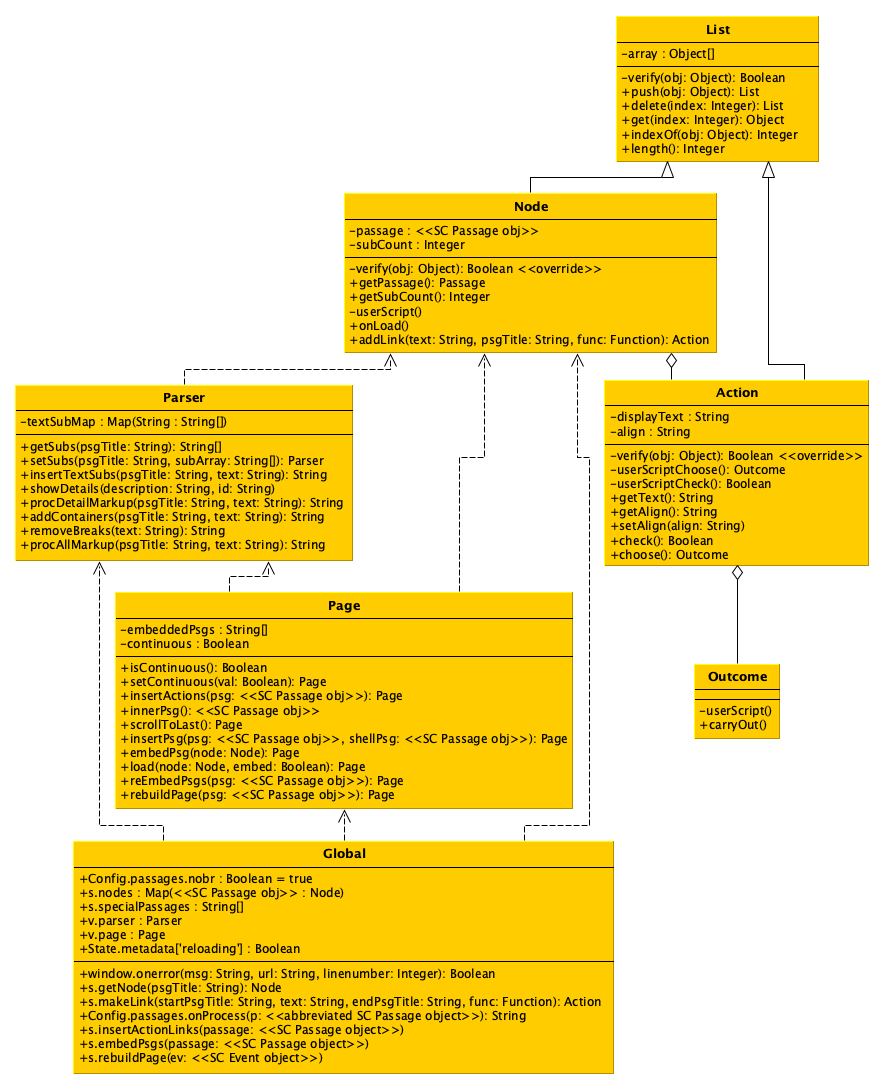
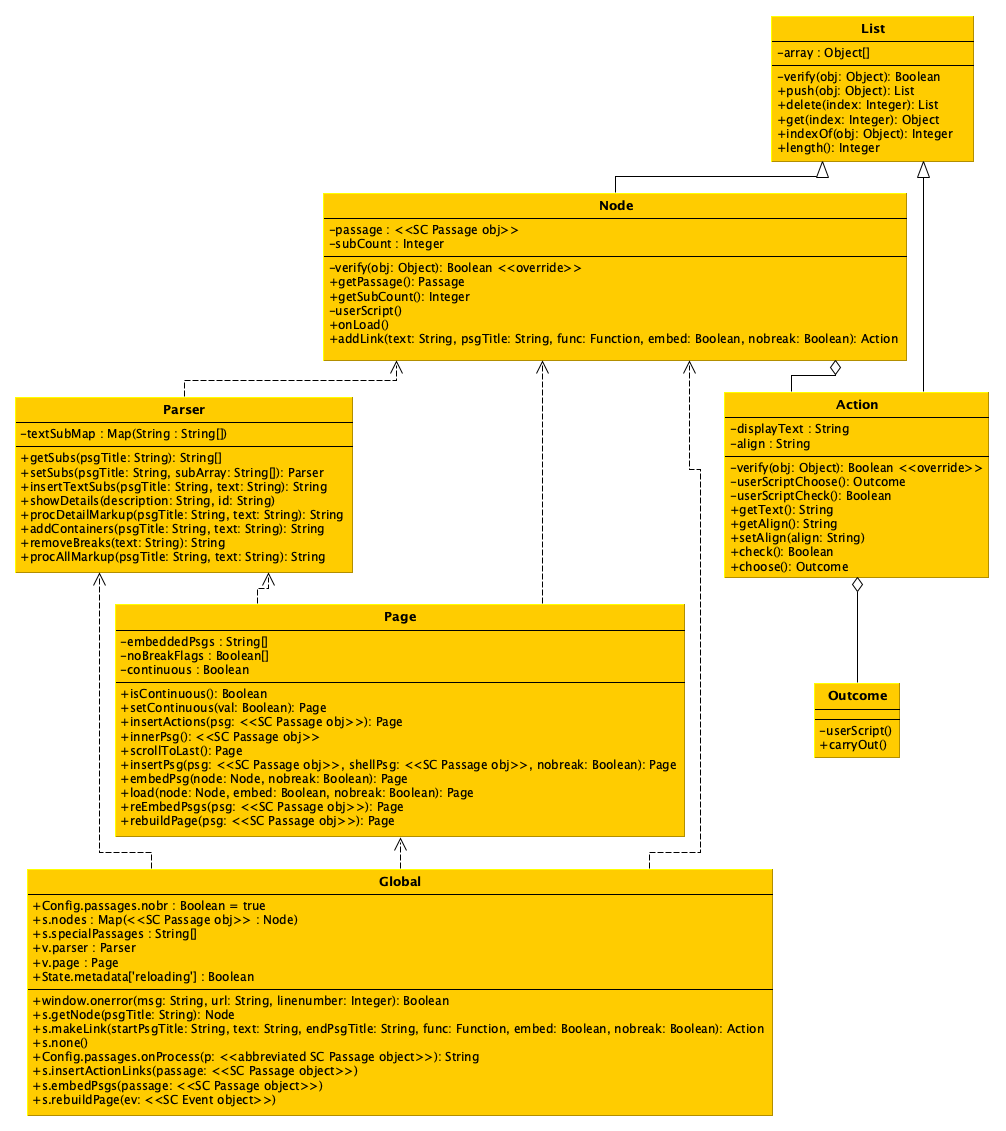
version 0.2.8
see change log

Changed region(s): [[0.0, 0.0, 1.0, 0.9991], [0.5181, 0.4059, 0.5485, 0.4371]]

diff --git a/bear-fight.html b/bear-fight.html
@@ -434,12 +434,13 @@ s.Node.prototype.onLoad = function() {
     return this._userScript();
 }
 
-s.Node.prototype.addLink = function(text, psgTitle, func) {
+s.Node.prototype.addLink = function(text, psgTitle, func, embed, nobreak) {
     /*
     Creates a new Outcome that runs the given function, then loads the
     node associated with the given passage title. Then adds that Outcome
     to a new Action with the given text as its link text. Then adds that
-    Action to the node.
+    Action to the node. The target node is loaded with the optional
+    `embed` and `nobreak` parameters.
 
     If there is no node associated with the given passage title, one
     will be created.
@@ -459,7 +460,7 @@ s.Node.prototype.addLink = function(text, psgTitle, func) {
     } else {
         outcome = new s.Outcome(function() {
             func();
-            v.page.load(targetNode);
+            v.page.load(targetNode, embed, nobreak);
         });
     }
 
@@ -810,6 +811,8 @@ be SC supported types.
 s.Page = function() {
     this._embeddedPsgs = [];  // list of embedded passage titles; does
                               // not include the first (main) passage
+    this._noBreakFlags = [];  // list of nobreak flags (true if passage
+                              // was embedded without a scene break)
     this._continuous = false; // set true to have passages embed by
                               // default
     return this;    
@@ -903,27 +906,31 @@ s.Page.prototype.scrollToLast = function() {
     return this;
 }
 
-s.Page.prototype.insertPsg = function(psg, shellPsg) {
+s.Page.prototype.insertPsg = function(psg, shellPsg, nobreak) {
     /*
-    Inserts the given passage into the given shell passage.
+    Inserts the given passage into the given shell passage, preceded by
+    a scene break ("****"). The scene break is omitted is `nobreak` is
+    true.
 
     @param {<<SC Passage object>>} psg - The passage to embed.
     @param {<<SC Passage object>>} shellPsg - The passage into which to
     embed.
     */
+    var sceneBreak = nobreak ? '' : '<p style="text-align:center">****</p>';
     $('#' + shellPsg.domId + '-next').wiki(
-        '<p style="text-align:center">****</p>' +
+        sceneBreak +
         v.parser.procAllMarkup(psg.title, psg.text)
     );
     return this;
 }
 
-s.Page.prototype.embedPsg = function(node) {
+s.Page.prototype.embedPsg = function(node, nobreak) {
     /*
     Removes the current actions from the page, inserts the given node
     and its actions into the bottom of the page, scrolls to put the new
     content at the top, appends the page's list of embedded passages,
-    and adds a new moment to SC's history.
+    and adds a new moment to SC's history. The embedded passage is
+    preceded by a scene break ("****") unless `nobreak` is true.
     */
     var nodePsg = node.getPassage();
     if (nodePsg.title === passage() ||
@@ -936,31 +943,36 @@ s.Page.prototype.embedPsg = function(node) {
 
     var latestPsg = this.innerPsg();
     $('#' + latestPsg.domId + '-actions').empty();
-    this.insertPsg(nodePsg, latestPsg);
+    this.insertPsg(nodePsg, latestPsg, nobreak);
     this.insertActions(nodePsg);
     this.scrollToLast();
     this._embeddedPsgs.push(nodePsg.title);
+    this._noBreakFlags.push(nobreak);
     State.create(State.passage);
     return this;
 }
 
-s.Page.prototype.load = function(node, embed) {
+s.Page.prototype.load = function(node, embed, nobreak) {
     /*
     Runs the given node's `onLoad` function, then renders the node's
     passage. If the optional parameter `embed` is true, then rather than
     rendering the passage, the passage's contents are appended to the
     end of the last embedded passage, the page is scrolled to put the
     new passage content at the top, and a new moment is added to SC's
-    history.
+    history. The appended content is preceded by a scene break ("****"),
+    unless the optional `nobreak` parameter is true.
     */
-    embed = embed || this._continuous;
+    if (embed === undefined) {
+        embed = this._continuous;
+    }
     node.onLoad();
     var nodePsg = node.getPassage();
     if (embed) {
-        this.embedPsg(node);
+        this.embedPsg(node, nobreak);
         return this;
     } else {
         this._embeddedPsgs = [];
+        this._noBreakFlags = [];
         Engine.play(nodePsg.title);
         return this;
     }
@@ -975,7 +987,7 @@ s.Page.prototype.reEmbedPsgs = function(psg) {
     var nextPsg;
     for (var i = 0; i < this._embeddedPsgs.length; i++) {
         nextPsg = Story.get(this._embeddedPsgs[i]);
-        this.insertPsg(nextPsg, currentPsg);
+        this.insertPsg(nextPsg, currentPsg, this._noBreakFlags[i]);
         currentPsg = nextPsg;
     }
     return this;
@@ -1022,7 +1034,8 @@ window.onerror = function(msg, url, linenumber) {
     return true;
 }
 
-s.makeLink = function(startPsgTitle, text, endPsgTitle, func) {
+s.makeLink = function(startPsgTitle, text, endPsgTitle,
+                      func, embed, nobreak) {
     /*
     Calls the `addLink` method of the node associated with
     `startPsgTitle`, passing it the other parameters. If no such node
@@ -1033,8 +1046,11 @@ s.makeLink = function(startPsgTitle, text, endPsgTitle, func) {
         startNode = new s.Node(startPsgTitle);
     }
 
-    return startNode.addLink(text, endPsgTitle, func);
+    return startNode.addLink(text, endPsgTitle, func, embed, nobreak);
 }
+
+s.none = function() { return; } // for convenience when passing an empty
+                                // function as a parameter
 
 v.parser = new s.Parser();
 
@@ -1071,10 +1087,12 @@ $(document).on(':passagedisplay', s.rebuildPage);
 /* twine-user-script #9: "9000-Main.js" */
 v.page.setContinuous(true);
 
-s.makeLink('Start', 'begin', 'intro').setAlign('center');
+s.makeLink(
+    'Start', 'begin', 'intro', s.none, true, true
+).setAlign('center');
 s.makeLink('intro', 'continue', 'RNG warning');
 s.makeLink('RNG warning', 'got it', 'who you are');
-s.makeLink('who you are', 'take a look around', 'bedroom');
+s.makeLink('who you are', 'take a look around', 'bedroom', s.none, false);
 
 s.getNode('bedroom').push((new s.Action(
     'take the knife',
@@ -1085,7 +1103,7 @@ s.getNode('bedroom').push((new s.Action(
     v.containedIn.delete('knife');
     v.inventory.add('knife');
     v.parser.setSubs('Taking knife', [' You may need this for later.']);
-    v.page.load(s.takingKnife, true);
+    v.page.load(s.takingKnife, true, true);
     return;
 })));
 

diff --git a/src/javascript/0070-Page.js b/src/javascript/0070-Page.js
@@ -19,6 +19,8 @@ be SC supported types.
 s.Page = function() {
     this._embeddedPsgs = [];  // list of embedded passage titles; does
                               // not include the first (main) passage
+    this._noBreakFlags = [];  // list of nobreak flags (true if passage
+                              // was embedded without a scene break)
     this._continuous = false; // set true to have passages embed by
                               // default
     return this;    
@@ -112,27 +114,31 @@ s.Page.prototype.scrollToLast = function() {
     return this;
 }
 
-s.Page.prototype.insertPsg = function(psg, shellPsg) {
+s.Page.prototype.insertPsg = function(psg, shellPsg, nobreak) {
     /*
-    Inserts the given passage into the given shell passage.
+    Inserts the given passage into the given shell passage, preceded by
+    a scene break ("****"). The scene break is omitted is `nobreak` is
+    true.
 
     @param {<<SC Passage object>>} psg - The passage to embed.
     @param {<<SC Passage object>>} shellPsg - The passage into which to
     embed.
     */
+    var sceneBreak = nobreak ? '' : '<p style="text-align:center">****</p>';
     $('#' + shellPsg.domId + '-next').wiki(
-        '<p style="text-align:center">****</p>' +
+        sceneBreak +
         v.parser.procAllMarkup(psg.title, psg.text)
     );
     return this;
 }
 
-s.Page.prototype.embedPsg = function(node) {
+s.Page.prototype.embedPsg = function(node, nobreak) {
     /*
     Removes the current actions from the page, inserts the given node
     and its actions into the bottom of the page, scrolls to put the new
     content at the top, appends the page's list of embedded passages,
-    and adds a new moment to SC's history.
+    and adds a new moment to SC's history. The embedded passage is
+    preceded by a scene break ("****") unless `nobreak` is true.
     */
     var nodePsg = node.getPassage();
     if (nodePsg.title === passage() ||
@@ -145,31 +151,36 @@ s.Page.prototype.embedPsg = function(node) {
 
     var latestPsg = this.innerPsg();
     $('#' + latestPsg.domId + '-actions').empty();
-    this.insertPsg(nodePsg, latestPsg);
+    this.insertPsg(nodePsg, latestPsg, nobreak);
     this.insertActions(nodePsg);
     this.scrollToLast();
     this._embeddedPsgs.push(nodePsg.title);
+    this._noBreakFlags.push(nobreak);
     State.create(State.passage);
     return this;
 }
 
-s.Page.prototype.load = function(node, embed) {
+s.Page.prototype.load = function(node, embed, nobreak) {
     /*
     Runs the given node's `onLoad` function, then renders the node's
     passage. If the optional parameter `embed` is true, then rather than
     rendering the passage, the passage's contents are appended to the
     end of the last embedded passage, the page is scrolled to put the
     new passage content at the top, and a new moment is added to SC's
-    history.
+    history. The appended content is preceded by a scene break ("****"),
+    unless the optional `nobreak` parameter is true.
     */
-    embed = embed || this._continuous;
+    if (embed === undefined) {
+        embed = this._continuous;
+    }
     node.onLoad();
     var nodePsg = node.getPassage();
     if (embed) {
-        this.embedPsg(node);
+        this.embedPsg(node, nobreak);
         return this;
     } else {
         this._embeddedPsgs = [];
+        this._noBreakFlags = [];
         Engine.play(nodePsg.title);
         return this;
     }
@@ -184,7 +195,7 @@ s.Page.prototype.reEmbedPsgs = function(psg) {
     var nextPsg;
     for (var i = 0; i < this._embeddedPsgs.length; i++) {
         nextPsg = Story.get(this._embeddedPsgs[i]);
-        this.insertPsg(nextPsg, currentPsg);
+        this.insertPsg(nextPsg, currentPsg, this._noBreakFlags[i]);
         currentPsg = nextPsg;
     }
     return this;

diff --git a/change-log.html b/change-log.html
@@ -265,6 +265,16 @@ pre[data-line] .line-highlight[data-end]:after {
       <div class="mume markdown-preview  ">
       <h1 class="mume-header" id="change-log">Change Log</h1>
 
+<h2 class="mume-header" id="version-028">Version 0.2.8</h2>
+
+<ul>
+<li>Added <code>nobreak</code> parameter to <code>Page.insertPsg()</code> to suppress the printing of the scene break.</li>
+<li>Added <code>nobreak</code> parameter to <code>Page.embedPsg()</code> and the property <code>Page._noBreakFlags</code> to track which embedded passages were inserted without scene breaks.</li>
+<li>Added <code>nobreak</code> parameter to <code>Page.load()</code>.</li>
+<li>Edited <code>Page.reEmbedPsgs()</code> to take <code>this._noBreakFlags</code> into account when re-embedding the passages.</li>
+<li>Added <code>embed</code> and <code>nobreak</code> parameters to <code>Node.addLink()</code> and <code>makeLink()</code>.</li>
+<li>Added <code>none()</code> for convenience in passing an empty function as a parameter.</li>
+</ul>
 <h2 class="mume-header" id="version-027">Version 0.2.7</h2>
 
 <ul>

diff --git a/src/javascript/0050-Node.js b/src/javascript/0050-Node.js
@@ -108,12 +108,13 @@ s.Node.prototype.onLoad = function() {
     return this._userScript();
 }
 
-s.Node.prototype.addLink = function(text, psgTitle, func) {
+s.Node.prototype.addLink = function(text, psgTitle, func, embed, nobreak) {
     /*
     Creates a new Outcome that runs the given function, then loads the
     node associated with the given passage title. Then adds that Outcome
     to a new Action with the given text as its link text. Then adds that
-    Action to the node.
+    Action to the node. The target node is loaded with the optional
+    `embed` and `nobreak` parameters.
 
     If there is no node associated with the given passage title, one
     will be created.
@@ -133,7 +134,7 @@ s.Node.prototype.addLink = function(text, psgTitle, func) {
     } else {
         outcome = new s.Outcome(function() {
             func();
-            v.page.load(targetNode);
+            v.page.load(targetNode, embed, nobreak);
         });
     }
 

diff --git a/src/javascript/8000-Global.js b/src/javascript/8000-Global.js
@@ -23,7 +23,8 @@ window.onerror = function(msg, url, linenumber) {
     return true;
 }
 
-s.makeLink = function(startPsgTitle, text, endPsgTitle, func) {
+s.makeLink = function(startPsgTitle, text, endPsgTitle,
+                      func, embed, nobreak) {
     /*
     Calls the `addLink` method of the node associated with
     `startPsgTitle`, passing it the other parameters. If no such node
@@ -34,8 +35,11 @@ s.makeLink = function(startPsgTitle, text, endPsgTitle, func) {
         startNode = new s.Node(startPsgTitle);
     }
 
-    return startNode.addLink(text, endPsgTitle, func);
+    return startNode.addLink(text, endPsgTitle, func, embed, nobreak);
 }
+
+s.none = function() { return; } // for convenience when passing an empty
+                                // function as a parameter
 
 v.parser = new s.Parser();
 

diff --git a/src/javascript/9000-main.js b/src/javascript/9000-main.js
@@ -1,9 +1,11 @@
 v.page.setContinuous(true);
 
-s.makeLink('Start', 'begin', 'intro').setAlign('center');
+s.makeLink(
+    'Start', 'begin', 'intro', s.none, true, true
+).setAlign('center');
 s.makeLink('intro', 'continue', 'RNG warning');
 s.makeLink('RNG warning', 'got it', 'who you are');
-s.makeLink('who you are', 'take a look around', 'bedroom');
+s.makeLink('who you are', 'take a look around', 'bedroom', s.none, false);
 
 s.getNode('bedroom').push((new s.Action(
     'take the knife',
@@ -14,7 +16,7 @@ s.getNode('bedroom').push((new s.Action(
     v.containedIn.delete('knife');
     v.inventory.add('knife');
     v.parser.setSubs('Taking knife', [' You may need this for later.']);
-    v.page.load(s.takingKnife, true);
+    v.page.load(s.takingKnife, true, true);
     return;
 })));
 

diff --git a/change-log.md b/change-log.md
@@ -4,6 +4,15 @@ title: Change Log
 
 # Change Log
 
+## Version 0.2.8
+
+* Added `nobreak` parameter to `Page.insertPsg()` to suppress the printing of the scene break.
+* Added `nobreak` parameter to `Page.embedPsg()` and the property `Page._noBreakFlags` to track which embedded passages were inserted without scene breaks.
+* Added `nobreak` parameter to `Page.load()`.
+* Edited `Page.reEmbedPsgs()` to take `this._noBreakFlags` into account when re-embedding the passages.
+* Added `embed` and `nobreak` parameters to `Node.addLink()` and `makeLink()`.
+* Added `none()` for convenience in passing an empty function as a parameter.
+
 ## Version 0.2.7
 
 * Deleted unused variable `v.embeddedPsgs`.
